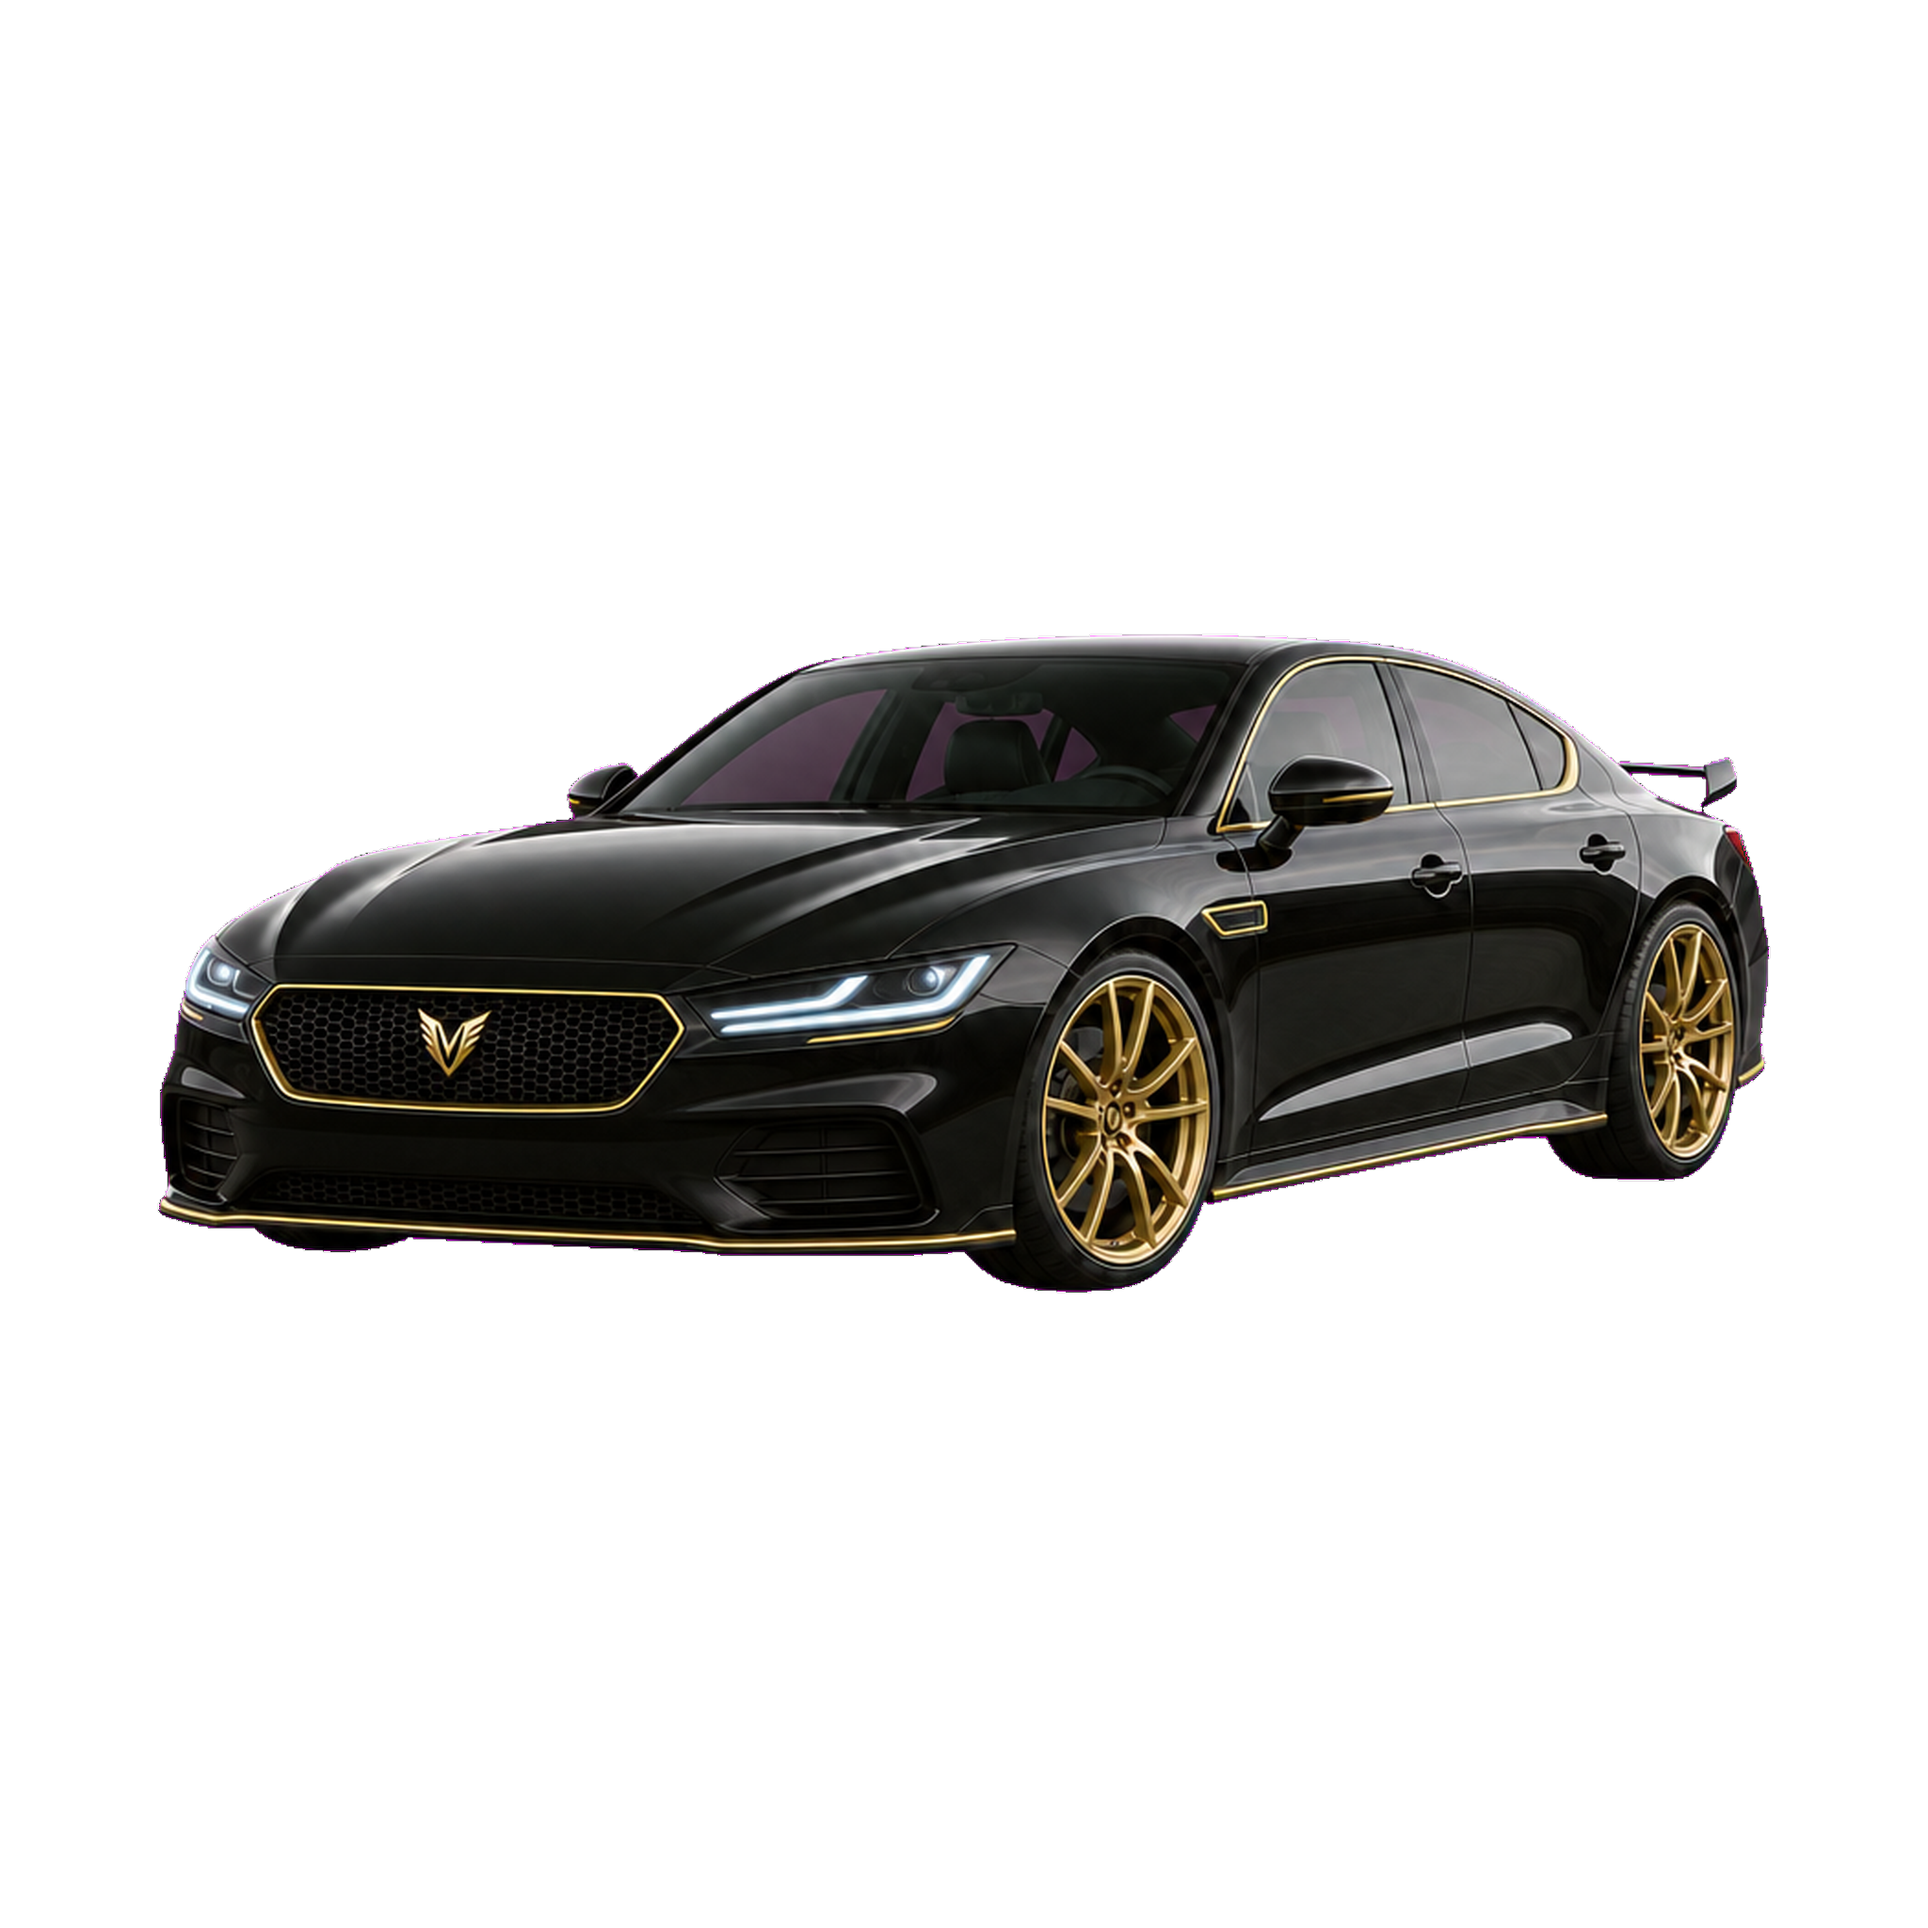
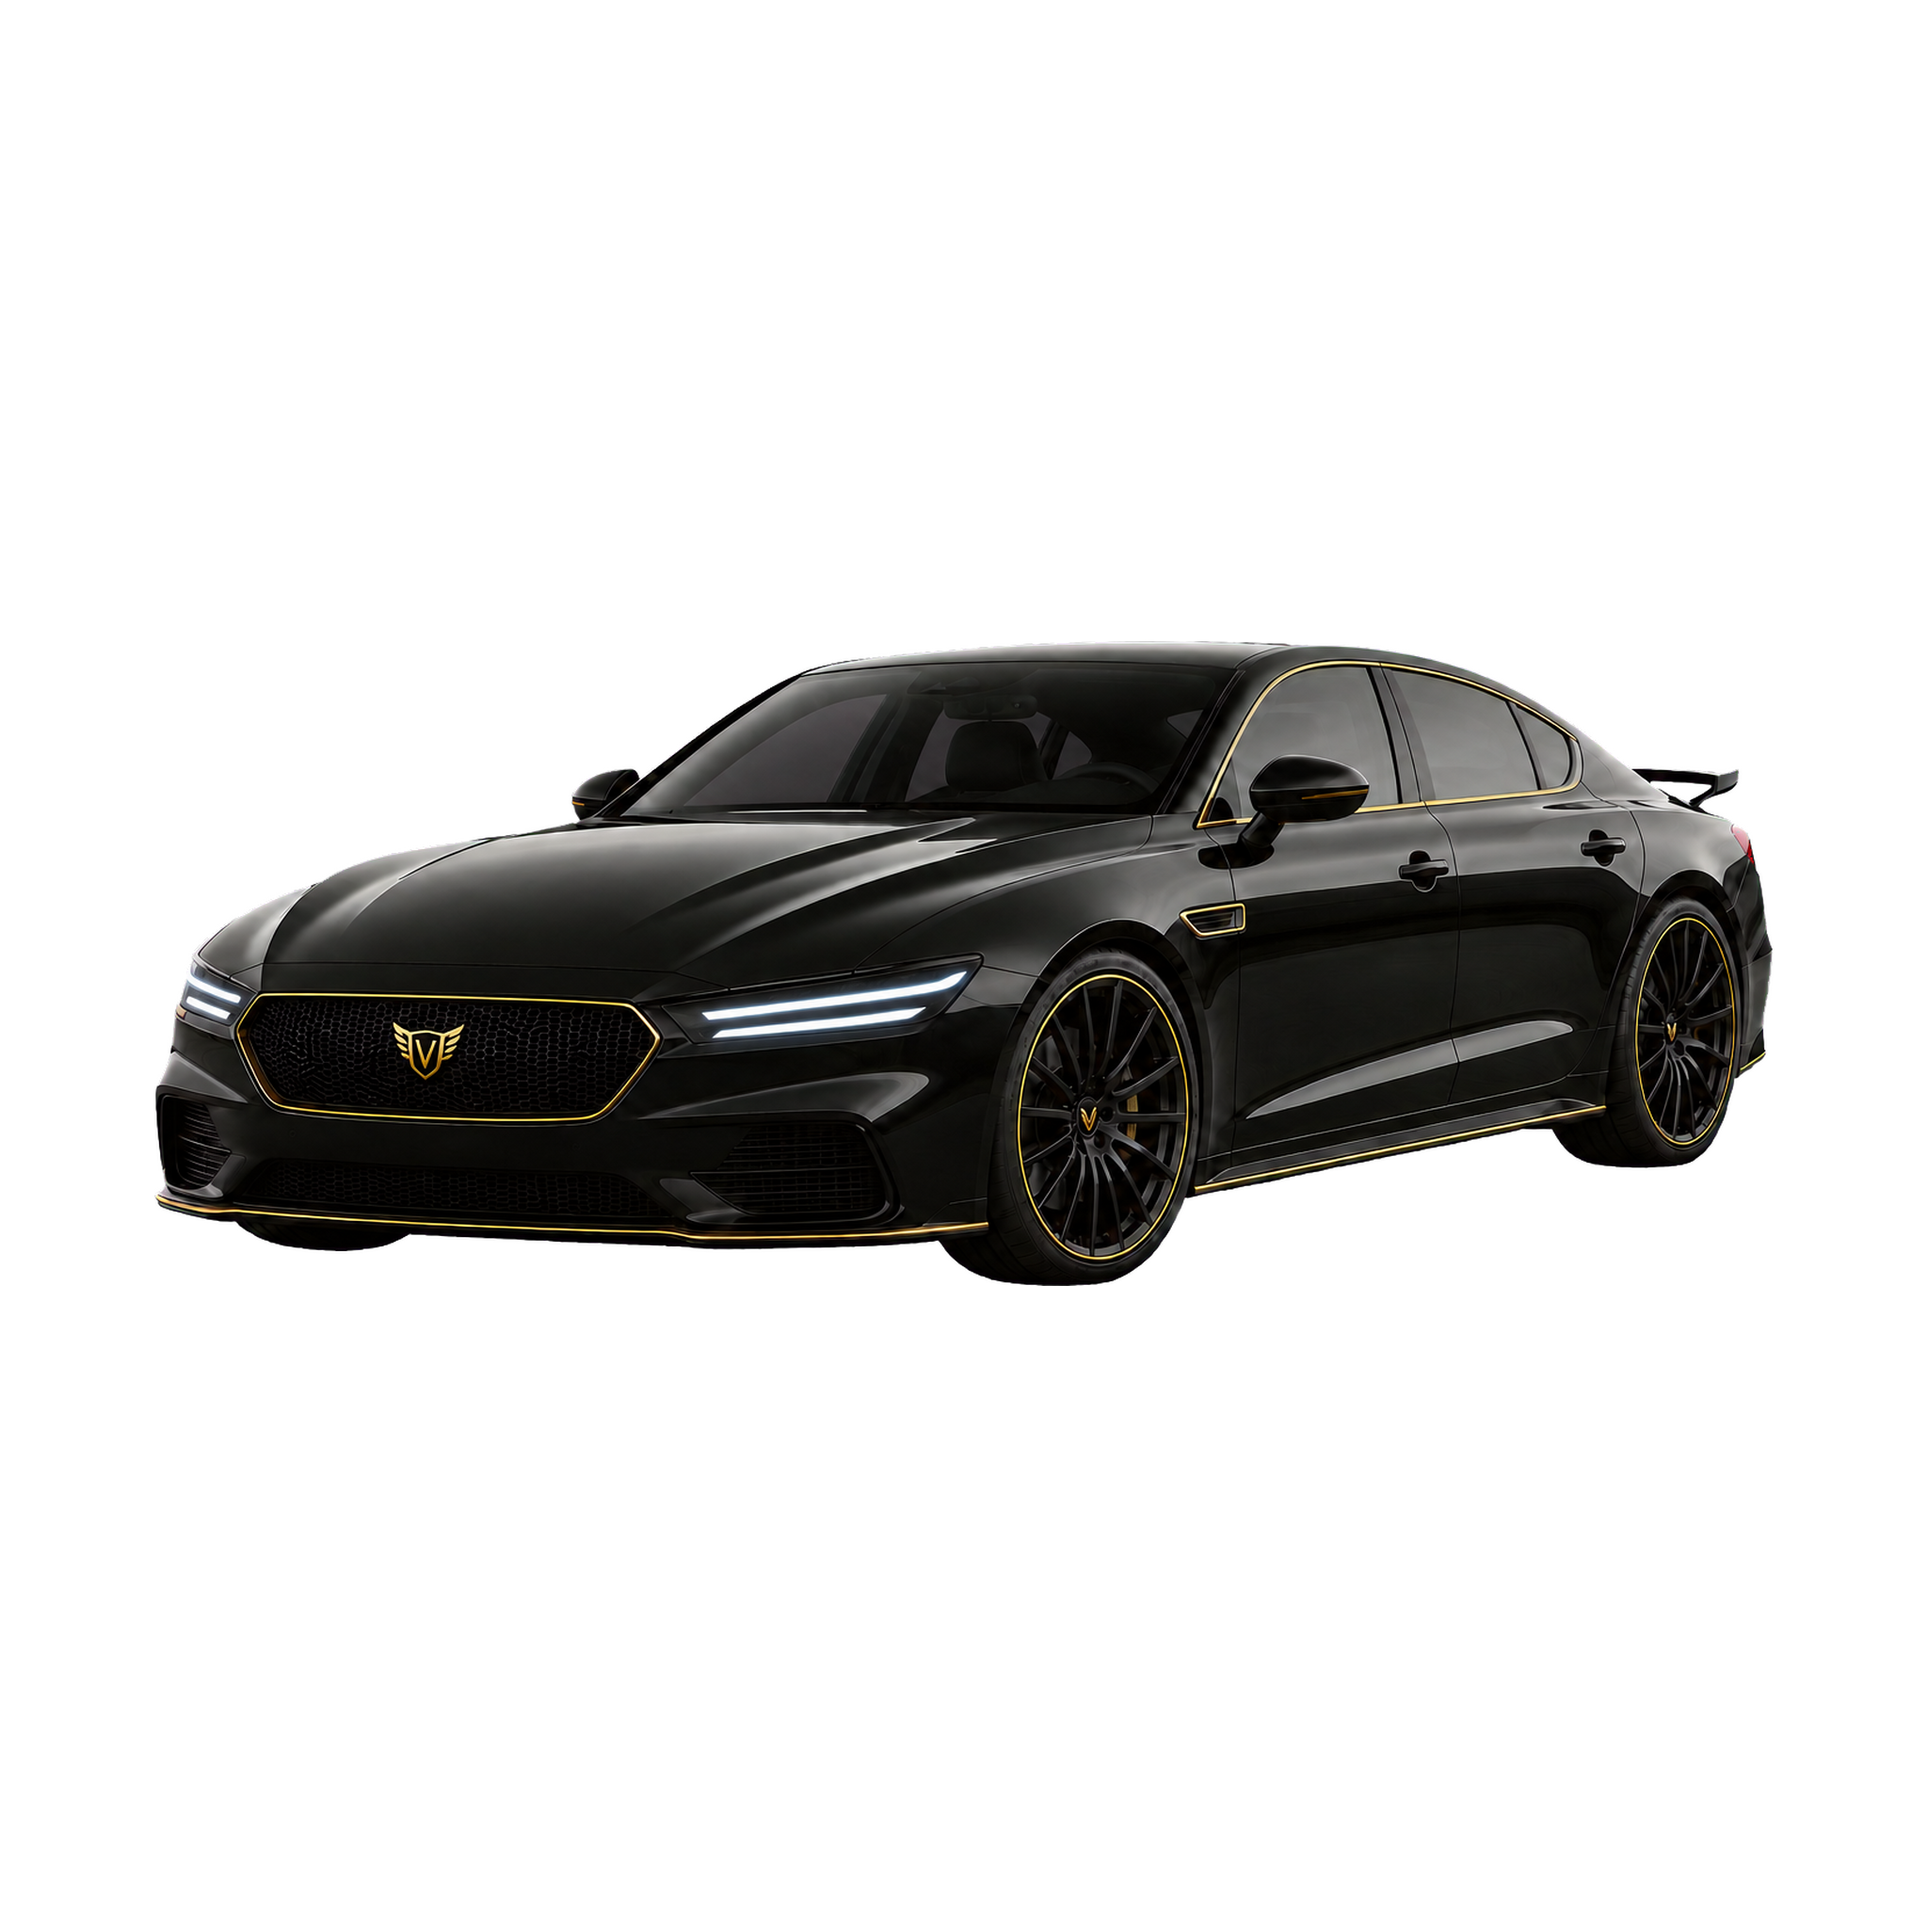
feat(character): promote Heritage S pass 3 front master (#6)
* feat(character): add Heritage S front master pass 3 candidate

* feat(character): promote Heritage S pass 3 front master

Changed region(s): [[0.0625, 0.3125, 0.9375, 0.6875]]

diff --git a/AI/reports/HERITAGE_FRONT45_PASS3_REVIEW.md b/AI/reports/HERITAGE_FRONT45_PASS3_REVIEW.md
@@ -1,0 +1,45 @@
+# Heritage Executive S — Front 45 Pass 3 Review
+
+- Repository base: `main@5adbf3658aaeafff2e6ec75494b20e11af8e71cb`
+- Official name: `VROO Heritage Executive S`
+- Display name: `Heritage S`
+- Role: `brand_flagship`
+- Candidate: `app/assets/characters/05_Heritage/views/front_45_pass3_candidate.png`
+- Decision: **candidate accepted for Cursor verification; master approval remains false**
+
+## Why Pass 1 was not approved
+
+- A visible magenta/purple edge fringe remained around the vehicle.
+- Gold was too dominant on the wheels and window surround.
+- The headlamp graphic did not read consistently as the immutable Twin-Blade DRL.
+- The center mark read as a loose winged V rather than a compact Winged-V Shield.
+- The overall face was closer to a generic tuned luxury sedan than a locked VROO flagship.
+
+## Pass 3 improvements
+
+- Wide, low hexagonal grille and dense dark mesh retained.
+- Compact Winged-V Shield emblem established at the grille center.
+- Near-side Twin-Blade DRL reads as two separated cool-white blades.
+- Gold reduced to thin premium accents on the grille, lower lip, side skirt and wheel rim.
+- Wheels changed to dark satin multi-spoke construction.
+- Glass reflections neutralized; green chroma contamination removed.
+- Executive lower fascia retained without a deep race splitter.
+
+## Technical validation
+
+- Format: PNG, RGBA 8-bit
+- Canvas: 2048 × 2048
+- Visible bounds: `(164, 681)–(1884, 1366)`
+- Margins: left 164, top 681, right 164, bottom 682
+- Minimum safe margin: 8.01%
+- Corner alpha: `0, 0, 0, 0`
+- Transparent pixels: 3,322,271
+- Partially transparent pixels: 21,936
+- Fully opaque pixels: 850,097
[1 lines of base64/hex data omitted]
+
+## Gate
+
+Do not overwrite `front_45.png`, export WebP, set
+`approval.masterFront45: true`, or generate the remaining eight directions until
+Cursor completes the verification instructions in `AI/CURSOR_TASK_INSTRUCTION.md`.

diff --git a/AI/CURSOR_TASK_INSTRUCTION.md b/AI/CURSOR_TASK_INSTRUCTION.md
@@ -1,0 +1,64 @@
+# Cursor Task — Verify Heritage S Front 45 Pass 3
+
+## Scope
+
+Review the candidate only:
+
+`app/assets/characters/05_Heritage/views/front_45_pass3_candidate.png`
+
+Compare it with:
+
+- `app/assets/characters/05_Heritage/views/front_45.png`
+- `app/assets/characters/05_Heritage/metadata.json`
+- `app/assets/characters/00_DNA/vroo_vehicle_dna.json`
+- `AI/reports/HERITAGE_FRONT45_PASS3_REVIEW.md`
+- `AI/reports/HERITAGE_ACCEPTANCE_CHECKLIST.md`
+
+Preserve Garage V2 UI and vehicle data. Do not touch the local Garage WIP files
+unless a separate task explicitly authorizes it.
+
+## Required verification
+
+1. Confirm 2048 × 2048 RGBA and transparent corners.
+2. Inspect at 200% on black, white and checkerboard backgrounds.
+3. Confirm there is no magenta/green fringe, floor, shadow, reflection, text or watermark.
+4. Confirm one complete vehicle is visible with at least 8% safe margin.
+5. Confirm the front identity:
+   - wide low hex mesh grille
+   - compact Winged-V Shield
+   - Twin-Blade DRL
+   - restrained gold
+   - executive lower fascia
+6. Confirm the candidate is not loaded by the current Garage runtime.
+
+## If every check passes
+
+Do not merge or replace the master automatically. Report:
+
+`HERITAGE_FRONT45_PASS3_VERIFIED`
+
+Include:
+
+- exact image dimensions and mode
+- alpha corner values
+- visible bounding box and margins
+- fringe test result
+- the exact files that would change during final promotion
+
+Wait for the AI Project Manager approval before:
+
+- replacing `front_45.png`
+- creating `front_45.webp`
+- changing `polishPass.front_45`
+- setting `approval.masterFront45: true`
+- starting the remaining eight directions
+
+## If any check fails
+
+Report:
+
+`HERITAGE_FRONT45_PASS3_REJECTED`
+
+List the failing criterion and exact evidence. Do not modify the approved runtime
+path or metadata approval values.
+
